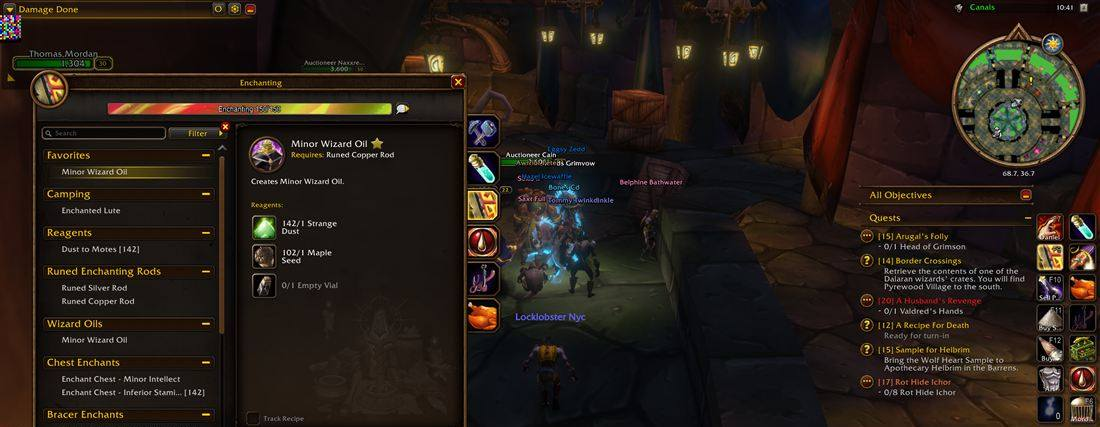
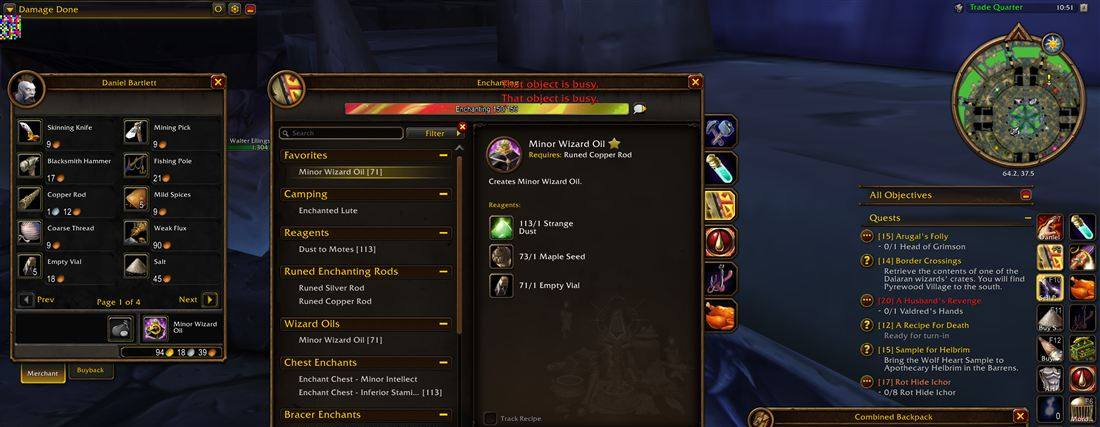
Publish the oil loop scoreboard

diff --git a/index.html b/index.html
@@ -37,47 +37,55 @@ td,th{text-align:left;padding:6px 8px 6px 0;border-bottom:1px solid var(--line);
 th{font-size:10px;color:var(--muted);text-transform:uppercase;letter-spacing:.06em;font-weight:600}
 </style></head><body><div class="wrap">
 
-<h1>Now</h1>
 <div class="card">
-  <div class="row"><div class="verdict good">walking the circuit</div>
-    <div class="muted" data-ts="1791135529051"></div></div>
-  <div class="muted" style="margin-top:6px">at Thomas Mordan &middot; 0 oils possible &middot; 28 slots free</div>
+  <div class="row"><h1 style="margin:0">Now</h1>
+    <span class="muted" data-ts="1791135992284"></span></div>
+  <div class="verdict good" style="font-size:30px">walking the circuit</div>
+  <div class="muted" style="margin-top:4px">at 64.3, 37.5
+    &middot; at Daniel Bartlett</div>
+  <div class="grid" style="margin-top:14px">
+    <div class="stat"><div class="k">Oil</div><div class="v ">0</div></div>
+    <div class="stat"><div class="k">Seeds</div><div class="v ">102</div></div>
+    <div class="stat"><div class="k">Dust</div><div class="v ">142</div></div>
+    <div class="stat"><div class="k">Vials</div><div class="v warn">0</div></div>
+    <div class="stat"><div class="k">Free</div><div class="v ">28</div></div>
+    <div class="stat"><div class="k">Purse</div><div class="v ">94g 21s 99c</div></div>
+  </div>
+  <img src="live.jpg?t=1791136191918" alt="live view" style="width:100%;margin-top:14px;
+    border-radius:8px;border:1px solid var(--line);display:block" onerror="this.style.display='none'">
 </div>
 
-<h1>Stock</h1>
-<div class="card"><div class="grid">
-  <div class="stat"><div class="k">Oil</div><div class="v ">0</div></div>
-  <div class="stat"><div class="k">Seeds</div><div class="v ">102</div></div>
-  <div class="stat"><div class="k">Dust</div><div class="v ">142</div></div>
-  <div class="stat"><div class="k">Vials</div><div class="v warn">0</div></div>
-  <div class="stat"><div class="k">Free</div><div class="v ">28</div></div>
-  <div class="stat"><div class="k">Purse</div><div class="v ">94g 21s 99c</div></div>
-</div>
-<img src="live.jpg?t=1791135652096" alt="live view" style="width:100%;margin-top:14px;
-  border-radius:8px;border:1px solid var(--line);display:block" onerror="this.style.display='none'">
+<div class="card">
+  <h1>This batch</h1>
+  <div class="big">0 <span class="muted" style="font-size:16px">oils left to make</span></div>
+  <div style="background:var(--line);border-radius:6px;height:10px;margin:10px 0 10px">
+    <div style="background:var(--good);height:10px;border-radius:6px;width:100%"></div></div>
+  <div class="grid">
+    <div class="stat"><div class="k">Ends in</div><div class="v ">&mdash;</div></div>
+    <div class="stat"><div class="k">Profit left</div><div class="v good">0c</div></div>
+    <div class="stat"><div class="k">Purse at end</div><div class="v ">94g 21s 99c</div></div>
+    <div class="stat"><div class="k">Best pace</div><div class="v ">1.0s</div></div>
+    <div class="stat"><div class="k">Pace now</div><div class="v ">2.3s</div></div>
+    <div class="stat"><div class="k">Profit/oil</div><div class="v good">1s 16c</div></div>
+  </div>
 </div>
 
-<h1>This run</h1>
-<div class="card"><div class="grid">
-  <div class="stat"><div class="k">Oils left</div><div class="v ">0</div></div>
-  <div class="stat"><div class="k">Ends in</div><div class="v ">&mdash;</div></div>
-  <div class="stat"><div class="k">Profit left</div><div class="v good">0c</div></div>
-  <div class="stat"><div class="k">Purse at end</div><div class="v ">94g 21s 99c</div></div>
-</div></div>
-
-<h1>Rate</h1>
-<div class="card"><div class="grid">
-  <div class="stat"><div class="k">Best pace</div><div class="v ">0.95s</div></div>
-  <div class="stat"><div class="k">Pace now</div><div class="v ">2.30s</div></div>
-  <div class="stat"><div class="k">Profit / oil</div><div class="v ">1s 16c</div></div>
-  <div class="stat"><div class="k">Ideal /h</div><div class="v ">16.72g/h</div></div>
-  <div class="stat"><div class="k">Profit 1h</div><div class="v ">3.88g/h</div></div>
-  <div class="stat"><div class="k">Profit 24h</div><div class="v ">0.65g/h</div></div>
-  <div class="stat"><div class="k">s/oil 24h</div><div class="v ">2.15s</div></div>
-  <div class="stat"><div class="k">s/oil all</div><div class="v ">2.50s</div></div>
-  <div class="stat"><div class="k">Crafted</div><div class="v ">2538</div></div>
-  <div class="stat"><div class="k">Sold</div><div class="v ">2586</div></div>
-</div></div>
+<div class="card">
+  <div class="row"><h1 style="margin:0">Today</h1>
+    <span class="muted">1s 16c an oil</span></div>
+  <div class="grid">
+    <div class="stat"><div class="k">Profit 1h</div><div class="v good">3.04g/h</div></div>
+    <div class="stat"><div class="k">Profit 24h</div><div class="v good">0.75g/h</div></div>
+    <div class="stat"><div class="k">Sec/oil 1h</div><div class="v ">13.8s</div></div>
+    <div class="stat"><div class="k">Sec/oil 24h</div><div class="v ">55.5s</div></div>
+    <div class="stat"><div class="k">Stalls 24h</div><div class="v bad">8</div></div>
+    <div class="stat"><div class="k">Lost 24h</div><div class="v bad">21.3h</div></div>
+  </div>
+  <svg viewBox="0 0 320 44" preserveAspectRatio="none" role="img" aria-label="recent trend"
+    style="width:100%;height:44px;margin-top:12px;display:block">
+    <polyline points="1.0,36.9 9.2,13.3 17.3,7.1 25.5,17.4 33.6,7.1 41.8,1.0 49.9,27.6 58.1,2.0 66.2,6.1 74.4,27.6 82.5,24.6 90.7,19.4 98.8,16.4 107.0,41.0 115.2,19.4 123.3,16.4 131.5,10.2 139.6,37.9 147.8,14.3 155.9,8.2 164.1,11.2 172.2,23.5 180.4,20.5 188.5,17.4 196.7,43.0 204.8,20.5 213.0,17.4 221.2,11.2 229.3,30.7 237.5,16.4 245.6,10.2 253.8,11.2 261.9,23.5 270.1,21.5 278.2,18.4 286.4,36.9 294.5,21.5 302.7,18.4 310.8,12.3 319.0,31.7" fill="none" stroke="var(--good)" stroke-width="1.6"
+      stroke-linejoin="round" stroke-linecap="round"/></svg>
+</div>
 
 <h1>Gold and stock &mdash; the whole run</h1>
 <div class="card">
@@ -157,29 +165,17 @@ th{font-size:10px;color:var(--muted);text-transform:uppercase;letter-spacing:.06
 <h1>Navigation</h1>
 <div class="card"><div class="row" style="margin-top:12px">
     <div><strong>bartlett</strong></div>
-    <div class="bad">29%</div></div>
-  <div class="muted">12/41 arrived, median 10s</div>
-  <ul><li><span class="when" data-ts="1791134357805"></span>
+    <div class="bad">31%</div></div>
+  <div class="muted">13/42 arrived, median 10s</div>
+  <ul><li><span class="when" data-ts="1791135987069"></span>
+    <span class="who good">arrived</span>
+    <span class="what">31s &middot; 0.5 yd out &middot; 15 ticks</span></li><li><span class="when" data-ts="1791134357805"></span>
     <span class="who good">arrived</span>
     <span class="what">8s &middot; 0.2 yd out &middot; 4 ticks</span></li><li><span class="when" data-ts="1791133856396"></span>
     <span class="who good">arrived</span>
     <span class="what">9s &middot; 1.0 yd out &middot; 4 ticks</span></li><li><span class="when" data-ts="1791133294042"></span>
     <span class="who good">arrived</span>
-    <span class="what">12s &middot; 0.8 yd out &middot; 4 ticks</span></li><li><span class="when" data-ts="1791131563002"></span>
-    <span class="who good">arrived</span>
-    <span class="what">13s &middot; 1.1 yd out &middot; 4 ticks</span></li></ul><div class="row" style="margin-top:12px">
-    <div><strong>cain</strong></div>
-    <div class="warn">81%</div></div>
-  <div class="muted">25/31 arrived, median 59s</div>
-  <ul><li><span class="when" data-ts="1791135647965"></span>
-    <span class="who good">arrived</span>
-    <span class="what">33s &middot; 2.0 yd out &middot; 8 ticks</span></li><li><span class="when" data-ts="1791133937364"></span>
-    <span class="who good">arrived</span>
-    <span class="what">21s &middot; 0.6 yd out &middot; 8 ticks</span></li><li><span class="when" data-ts="1791133595596"></span>
-    <span class="who good">arrived</span>
-    <span class="what">20s &middot; 1.0 yd out &middot; 8 ticks</span></li><li><span class="when" data-ts="1791133091960"></span>
-    <span class="who good">arrived</span>
-    <span class="what">23s &middot; 0.8 yd out &middot; 9 ticks</span></li></ul><div class="row" style="margin-top:12px">
+    <span class="what">12s &middot; 0.8 yd out &middot; 4 ticks</span></li></ul><div class="row" style="margin-top:12px">
     <div><strong>mordan</strong></div>
     <div class="bad">38%</div></div>
   <div class="muted">11/29 arrived, median 0s</div>
@@ -192,42 +188,78 @@ th{font-size:10px;color:var(--muted);text-transform:uppercase;letter-spacing:.06
     <span class="what">83s &middot; 1.0 yd out &middot; 27 ticks</span></li><li><span class="when" data-ts="1791132347917"></span>
     <span class="who good">arrived</span>
     <span class="what">96s &middot; 0.2 yd out &middot; 28 ticks</span></li></ul><div class="row" style="margin-top:12px">
+    <div><strong>cain</strong></div>
+    <div class="warn">81%</div></div>
+  <div class="muted">21/26 arrived, median 47s</div>
+  <ul><li><span class="when" data-ts="1791135654918"></span>
+    <span class="who good">arrived</span>
+    <span class="what">40s &middot; 0.7 yd out &middot; 9 ticks</span></li><li><span class="when" data-ts="1791133937364"></span>
+    <span class="who good">arrived</span>
+    <span class="what">21s &middot; 0.6 yd out &middot; 8 ticks</span></li><li><span class="when" data-ts="1791133595596"></span>
+    <span class="who good">arrived</span>
+    <span class="what">20s &middot; 1.0 yd out &middot; 8 ticks</span></li><li><span class="when" data-ts="1791133091960"></span>
+    <span class="who good">arrived</span>
+    <span class="what">23s &middot; 0.8 yd out &middot; 9 ticks</span></li></ul><div class="row" style="margin-top:12px">
     <div><strong>mailbox</strong></div>
     <div class="good">100%</div></div>
-  <div class="muted">24/24 arrived, median 28s</div>
-  <ul><li><span class="when" data-ts="1791134051132"></span>
+  <div class="muted">22/22 arrived, median 26s</div>
+  <ul><li><span class="when" data-ts="1791135687896"></span>
+    <span class="who good">arrived</span>
+    <span class="what">25s &middot; 1.2 yd out &middot; 10 ticks</span></li><li><span class="when" data-ts="1791134051132"></span>
     <span class="who good">arrived</span>
     <span class="what">21s &middot; 0.9 yd out &middot; 10 ticks</span></li><li><span class="when" data-ts="1791133623898"></span>
     <span class="who good">arrived</span>
     <span class="what">23s &middot; 1.3 yd out &middot; 11 ticks</span></li><li><span class="when" data-ts="1791133111096"></span>
     <span class="who good">arrived</span>
-    <span class="what">15s &middot; 1.0 yd out &middot; 8 ticks</span></li><li><span class="when" data-ts="1791131396486"></span>
-    <span class="who good">arrived</span>
-    <span class="what">29s &middot; 1.1 yd out &middot; 13 ticks</span></li></ul><div class="row" style="margin-top:12px">
+    <span class="what">15s &middot; 1.0 yd out &middot; 8 ticks</span></li></ul><div class="row" style="margin-top:12px">
     <div><strong>stairbase</strong></div>
-    <div class="bad">57%</div></div>
-  <div class="muted">12/21 arrived, median 50s</div>
-  <ul><li><span class="when" data-ts="1791134264991"></span>
+    <div class="bad">59%</div></div>
+  <div class="muted">13/22 arrived, median 50s</div>
+  <ul><li><span class="when" data-ts="1791135719145"></span>
+    <span class="who good">arrived</span>
+    <span class="what">21s &middot; 0.9 yd out &middot; 6 ticks</span></li><li><span class="when" data-ts="1791134264991"></span>
     <span class="who good">arrived</span>
     <span class="what">93s &middot; 1.7 yd out &middot; 23 ticks</span></li><li><span class="when" data-ts="1791133683383"></span>
     <span class="who good">arrived</span>
     <span class="what">12s &middot; 2.2 yd out &middot; 6 ticks</span></li><li><span class="when" data-ts="1791133179749"></span>
     <span class="who good">arrived</span>
-    <span class="what">65s &middot; 0.5 yd out &middot; 13 ticks</span></li><li><span class="when" data-ts="1791131415883"></span>
-    <span class="who good">arrived</span>
-    <span class="what">14s &middot; 2.0 yd out &middot; 5 ticks</span></li></ul><div class="row" style="margin-top:12px">
+    <span class="what">65s &middot; 0.5 yd out &middot; 13 ticks</span></li></ul><div class="row" style="margin-top:12px">
     <div><strong>bartlett turn</strong></div>
-    <div class="bad">59%</div></div>
-  <div class="muted">10/17 arrived, median 23s</div>
-  <ul><li><span class="when" data-ts="1791134341243"></span>
+    <div class="bad">55%</div></div>
+  <div class="muted">11/20 arrived, median 23s</div>
+  <ul><li><span class="when" data-ts="1791135951473"></span>
     <span class="who good">arrived</span>
-    <span class="what">14s &middot; 1.1 yd out &middot; 5 ticks</span></li><li><span class="when" data-ts="1791133842368"></span>
+    <span class="what">15s &middot; 0.9 yd out &middot; 5 ticks</span></li><li><span class="when" data-ts="1791135902458"></span>
+    <span class="who bad">stopped</span>
+    <span class="what">21s &middot; 33.4 yd out &middot; 11 ticks</span></li><li><span class="when" data-ts="1791135876687"></span>
+    <span class="who bad">stopped</span>
+    <span class="what">59s &middot; 33.4 yd out &middot; 32 ticks</span></li><li><span class="when" data-ts="1791134341243"></span>
     <span class="who good">arrived</span>
-    <span class="what">13s &middot; 0.9 yd out &middot; 5 ticks</span></li><li><span class="when" data-ts="1791133799616"></span>
-    <span class="who bad">stopped</span>
-    <span class="what">21s &middot; 33.4 yd out &middot; 11 ticks</span></li><li><span class="when" data-ts="1791133773776"></span>
-    <span class="who bad">stopped</span>
-    <span class="what">58s &middot; 33.4 yd out &middot; 32 ticks</span></li></ul><div class="row" style="margin-top:12px">
+    <span class="what">14s &middot; 1.1 yd out &middot; 5 ticks</span></li></ul><div class="row" style="margin-top:12px">
+    <div><strong>stairbend</strong></div>
+    <div class="good">100%</div></div>
+  <div class="muted">13/13 arrived, median 11s</div>
+  <ul><li><span class="when" data-ts="1791135747521"></span>
+    <span class="who good">arrived</span>
+    <span class="what">22s &middot; 0.5 yd out &middot; 14 ticks</span></li><li><span class="when" data-ts="1791134281496"></span>
+    <span class="who good">arrived</span>
+    <span class="what">11s &middot; 0.5 yd out &middot; 12 ticks</span></li><li><span class="when" data-ts="1791133696817"></span>
+    <span class="who good">arrived</span>
+    <span class="what">9s &middot; 0.6 yd out &middot; 12 ticks</span></li><li><span class="when" data-ts="1791133198039"></span>
+    <span class="who good">arrived</span>
+    <span class="what">11s &middot; 0.4 yd out &middot; 11 ticks</span></li></ul><div class="row" style="margin-top:12px">
+    <div><strong>stairtop</strong></div>
+    <div class="good">100%</div></div>
+  <div class="muted">13/13 arrived, median 22s</div>
+  <ul><li><span class="when" data-ts="1791135814204"></span>
+    <span class="who good">arrived</span>
+    <span class="what">58s &middot; 0.2 yd out &middot; 44 ticks</span></li><li><span class="when" data-ts="1791134319342"></span>
+    <span class="who good">arrived</span>
+    <span class="what">31s &middot; 0.4 yd out &middot; 19 ticks</span></li><li><span class="when" data-ts="1791133712705"></span>
+    <span class="who good">arrived</span>
+    <span class="what">12s &middot; 0.5 yd out &middot; 15 ticks</span></li><li><span class="when" data-ts="1791133229203"></span>
+    <span class="who good">arrived</span>
+    <span class="what">21s &middot; 0.8 yd out &middot; 17 ticks</span></li></ul><div class="row" style="margin-top:12px">
     <div><strong>landing</strong></div>
     <div class="warn">92%</div></div>
   <div class="muted">12/13 arrived, median 27s</div>
@@ -239,31 +271,7 @@ th{font-size:10px;color:var(--muted);text-transform:uppercase;letter-spacing:.06
     <span class="who good">arrived</span>
     <span class="what">10s &middot; 1.2 yd out &middot; 3 ticks</span></li><li><span class="when" data-ts="1791133064361"></span>
     <span class="who good">arrived</span>
-    <span class="what">79s &middot; 0.4 yd out &middot; 27 ticks</span></li></ul><div class="row" style="margin-top:12px">
-    <div><strong>stairbend</strong></div>
-    <div class="good">100%</div></div>
-  <div class="muted">12/12 arrived, median 11s</div>
-  <ul><li><span class="when" data-ts="1791134281496"></span>
-    <span class="who good">arrived</span>
-    <span class="what">11s &middot; 0.5 yd out &middot; 12 ticks</span></li><li><span class="when" data-ts="1791133696817"></span>
-    <span class="who good">arrived</span>
-    <span class="what">9s &middot; 0.6 yd out &middot; 12 ticks</span></li><li><span class="when" data-ts="1791133198039"></span>
-    <span class="who good">arrived</span>
-    <span class="what">11s &middot; 0.4 yd out &middot; 11 ticks</span></li><li><span class="when" data-ts="1791131438711"></span>
-    <span class="who good">arrived</span>
-    <span class="what">16s &middot; 0.6 yd out &middot; 14 ticks</span></li></ul><div class="row" style="margin-top:12px">
-    <div><strong>stairtop</strong></div>
-    <div class="good">100%</div></div>
-  <div class="muted">12/12 arrived, median 22s</div>
-  <ul><li><span class="when" data-ts="1791134319342"></span>
-    <span class="who good">arrived</span>
-    <span class="what">31s &middot; 0.4 yd out &middot; 19 ticks</span></li><li><span class="when" data-ts="1791133712705"></span>
-    <span class="who good">arrived</span>
-    <span class="what">12s &middot; 0.5 yd out &middot; 15 ticks</span></li><li><span class="when" data-ts="1791133229203"></span>
-    <span class="who good">arrived</span>
-    <span class="what">21s &middot; 0.8 yd out &middot; 17 ticks</span></li><li><span class="when" data-ts="1791131500886"></span>
-    <span class="who good">arrived</span>
-    <span class="what">57s &middot; 0.4 yd out &middot; 27 ticks</span></li></ul>
+    <span class="what">79s &middot; 0.4 yd out &middot; 27 ticks</span></li></ul>
 <div class="muted" style="margin-top:10px">Every leg is replayed from a hand-walked recording, not planned &mdash;
   this client reports z&nbsp;=&nbsp;0 everywhere, so a planner cannot tell the top of the stairs from the floor
   beneath it. A leg that did not arrive is counted the same as one that did.</div></div>
@@ -302,10 +310,30 @@ th{font-size:10px;color:var(--muted);text-transform:uppercase;letter-spacing:.06
   </table>
 </div>
 
+<div class="card"><h1>Downtime, 14 stalls</h1>
+  <div class="muted" style="margin-bottom:8px">the loop was alive 16% of the time it has existed</div>
+  <ul><li><span class="when" data-ts="1791134526323"></span>
+    <span class="what warn">18m dead</span></li><li><span class="when" data-ts="1791130799190"></span>
+    <span class="what bad">4.8h dead</span></li><li><span class="when" data-ts="1791111260061"></span>
+    <span class="what bad">8.0h dead</span></li><li><span class="when" data-ts="1791082074733"></span>
+    <span class="what warn">12m dead</span></li><li><span class="when" data-ts="1791080690415"></span>
+    <span class="what warn">19m dead</span></li><li><span class="when" data-ts="1791077977168"></span>
+    <span class="what bad">3.0h dead</span></li><li><span class="when" data-ts="1791066149719"></span>
+    <span class="what warn">34m dead</span></li><li><span class="when" data-ts="1791064130135"></span>
+    <span class="what bad">4.1h dead</span></li><li><span class="when" data-ts="1791045876616"></span>
+    <span class="what warn">10m dead</span></li><li><span class="when" data-ts="1791044620628"></span>
+    <span class="what bad">6.3h dead</span></li><li><span class="when" data-ts="1791021142810"></span>
+    <span class="what warn">27m dead</span></li><li><span class="when" data-ts="1791017722417"></span>
+    <span class="what warn">13m dead</span></li></ul></div>
+
 <h1>Activity</h1>
 <div class="card">
   <div class="chips"><button class="chip" data-filter="all" aria-pressed="true">all</button><button class="chip" data-filter="round" aria-pressed="false">round</button><button class="chip" data-filter="auction" aria-pressed="false">auction</button><button class="chip" data-filter="nav" aria-pressed="false">nav</button><button class="chip" data-filter="fault" aria-pressed="false">fault</button><button class="chip" data-filter="supervise" aria-pressed="false">supervise</button></div>
-  <ul id="feed"><li data-type="round">
+  <ul id="feed"><li data-type="nav">
+    <span class="when">latest</span><span class="who">nav</span>
+    <span class="what">tq_stairtop_to_bartlettturn: FAILED - STOPPED - needs a human: stalled 3x at (65.84, 43.45)</span></li><li data-type="nav">
+    <span class="when">latest</span><span class="who">nav</span>
+    <span class="what">resume did not take it: STOPPED - needs a human: stalled 3x at (65.83, 43.45)</span></li><li data-type="round">
     <span class="when" data-ts="1791135524181"></span><span class="who">round</span>
     <span class="what">round 24: made 14, sold 14 for 16s 24c profit at 2.14s a craft - 28 slots free</span></li><li data-type="round">
     <span class="when" data-ts="1791135411819"></span><span class="who">round</span>
@@ -441,11 +469,7 @@ th{font-size:10px;color:var(--muted);text-transform:uppercase;letter-spacing:.06
     <span class="when" data-ts="1791082412000"></span><span class="who">supervise</span>
     <span class="what">no progress even jumping - something is genuinely in the way. Stopping. |     retrying "tq_cain_to_mailbox" from where we stand |     resume did not take it: --resume refused: 15.1 yd off every straight run of "tq_cain_to_mailbox" (limit 3). Not standing on this leg. |     stuck at (66.63, 3</span></li><li data-type="supervise">
     <span class="when" data-ts="1791082412000"></span><span class="who">supervise</span>
-    <span class="what">navigation stalled - the loop re-orients on restart, so this is worth retrying</span></li><li data-type="supervise">
-    <span class="when" data-ts="1791082412000"></span><span class="who">supervise</span>
-    <span class="what">restarting in 5s</span></li><li data-type="round">
-    <span class="when" data-ts="1791082313660"></span><span class="who">round</span>
-    <span class="what">round 7: made 39, sold 39 for 45s 24c profit at 2.10s a craft - 47 slots free</span></li></ul>
+    <span class="what">navigation stalled - the loop re-orients on restart, so this is worth retrying</span></li></ul>
 </div>
 
 <div class="muted">Derived at request time from <code>oil-rounds.jsonl</code>, <code>oil-health.jsonl</code>,
